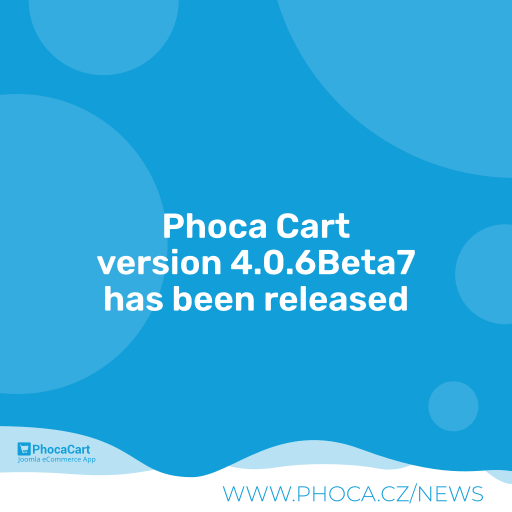
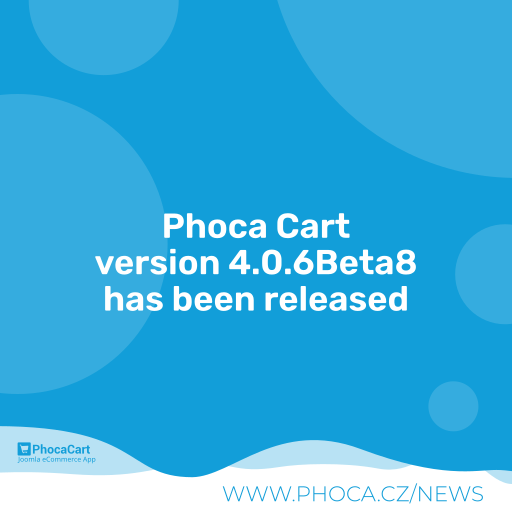
4.0.6Beta8

Changed region(s): [[0.1875, 0.4688, 0.8125, 0.5312]]

diff --git a/media/js/phoca/phocafilter.min.js b/media/js/phoca/phocafilter.min.js
@@ -1,1 +1,1 @@
-var phFilterNewUrlSet="",phFilterNewUrlRemove="",phFilterNewUrlSetPreviousParamWaiting=0,phFilterNewUrlRemovePreviousParamWaiting=0;function phEscapeRegExp(e){return e.replace(/([.*+?^=!:${}()|\[\]\/\\])/g,"\\$1")}function phReplaceAll(e,r,t){return t.replace(new RegExp(phEscapeRegExp(e),"g"),r)}function phEncode(e){e=encodeURIComponent(e);return e=phReplaceAll("%5B","[",e),e=phReplaceAll("%5D","]",e),e=phReplaceAll("%2C",",",e),e=phReplaceAll("%3A",":",e)}function phArrayToString(e){e=phReplaceAll("[","(",e);return e=phReplaceAll("]",")",e)}function phStringToArray(e){e=phReplaceAll("(","[",e);return e=phReplaceAll(")","]",e)}function phCleanArray(e){for(var r=[],t=0;t<e.length;t++)e[t]&&r.push(e[t]);return r}function phCleanEmptyParams(e){return e.replace(/&?[^&?]+=(?=(?:&|$))/g,"")}function phCleanAloneQuestionMark(e){return e="?"==(e="?&"==e?"?":e)?"":e}function phFilterValue(e){e=phReplaceAll("<","",e);return e=phReplaceAll(">","",e)}function phResetNewUrl(e){phFilterNewUrlSet=phFilterNewUrlRemove="",1==e&&(phFilterNewUrlSetPreviousParamWaiting=phFilterNewUrlRemovePreviousParamWaiting=0)}function phRemoveFilter(e,r,t,i,l,a,p,o){var n=Joomla.getOptions("phParamsPC");1!=n.ajaxSearchingFilteringItems&&(phFilterNewUrlSet=i),e=phArrayToString(e);var h,c=phArrayToString(c=jQuery.param.querystring()),m=""!==phFilterNewUrlRemove||1==phFilterNewUrlRemovePreviousParamWaiting?jQuery.deparam.querystring(phFilterNewUrlRemove):jQuery.deparam.querystring(c),s={},u=0;if(void 0!==m.start&&(s.start=0),void 0!==m.limitstart&&(s.limitstart=0),1!=a&&void 0!==m[e]?-1===(a=phCleanArray(a=(c=m[e]).split(","))).indexOf(r)||(-1<(r=a.indexOf(r))&&a.splice(r,1),(c=a.join())?s[e]=c:(delete m[e],s=m,u=2)):(delete m[e],s=m,u=2),1==t&&1!=l||1!=t)return""==(h=i)&&(h=document.location.pathname),document.location=h,1;if(h=location.search,h=phArrayToString(h=""!==phFilterNewUrlRemove||1==phFilterNewUrlRemovePreviousParamWaiting?phFilterNewUrlRemove:h),phFilterNewUrlRemove=phReplaceAll("%2C",",",phFilterNewUrlRemove=jQuery.param.querystring(h,s,u)),phFilterNewUrlRemove=phReplaceAll("%5B","[",phFilterNewUrlRemove),phFilterNewUrlRemove=phReplaceAll("%5D","]",phFilterNewUrlRemove),phFilterNewUrlRemove=phCleanAloneQuestionMark(phFilterNewUrlRemove=phStringToArray(phFilterNewUrlRemove=phReplaceAll("%3A",":",phFilterNewUrlRemove))),1==p){if((phFilterNewUrlRemovePreviousParamWaiting=1)==t&&1==n.ajaxSearchingFilteringItems)return 2}else{if(1==t&&1==n.ajaxSearchingFilteringItems)return phUpdatePageAndParts(phFilterNewUrlRemove,o),phResetNewUrl(1),2;""==phFilterNewUrlRemove&&(phFilterNewUrlRemove=document.location.pathname),document.location=phFilterNewUrlRemove,phResetNewUrl()}return 1}function phSetFilter(e,r,t,i,l,a,p,o){var n=Joomla.getOptions("phParamsPC");r=phFilterValue(r),e=phArrayToString(e);var h=phArrayToString(h=jQuery.param.querystring()),c=1==phFilterNewUrlSetPreviousParamWaiting?(phFilterNewUrlSet=phArrayToString(phFilterNewUrlSet),jQuery.deparam.querystring(phFilterNewUrlSet)):jQuery.deparam.querystring(h),h={};if(void 0!==c.start&&(h.start=0),void 0!==c.limitstart&&(h.limitstart=0),1==a?h[e]=r:""===r||(void 0!==c[e]?(-1===(c=phCleanArray(c=(a=c[e]).split(","))).indexOf(r)&&(c.push(r),a=c.join()),h[e]=a):h[e]=r),i=1==t&&1!=l||1!=t?i:location.search,i=phArrayToString(i=1==phFilterNewUrlSetPreviousParamWaiting?phFilterNewUrlSet:i),phFilterNewUrlSet=phReplaceAll("%2C",",",phFilterNewUrlSet=jQuery.param.querystring(i,h,0)),phFilterNewUrlSet=phReplaceAll("%2C",",",phFilterNewUrlSet),phFilterNewUrlSet=phReplaceAll("%5B","[",phFilterNewUrlSet),phFilterNewUrlSet=phReplaceAll("%5D","]",phFilterNewUrlSet),phFilterNewUrlSet=phCleanAloneQuestionMark(phFilterNewUrlSet=phCleanEmptyParams(phFilterNewUrlSet=phStringToArray(phFilterNewUrlSet=phReplaceAll("%3A",":",phFilterNewUrlSet)))),1==p){if((phFilterNewUrlSetPreviousParamWaiting=1)==t&&1==n.ajaxSearchingFilteringItems)return 2}else{if(1==t&&1==n.ajaxSearchingFilteringItems)return phUpdatePageAndParts(phFilterNewUrlSet,o),phResetNewUrl(1),2;document.location=phFilterNewUrlSet,phResetNewUrl()}return 1}function phChangeFilter(e,r,t,i,l,a,p){var o=Joomla.getOptions("phVarsModPhocacartFilter"),n=Joomla.getOptions("phParamsModPhocacartFilter"),h=o.isItemsView,c=o.isSef,m=o.urlItemsView,s=o.urlItemsViewWithoutParams,o=1;"itemview"==i?o=phSetFilter(e,r=void 0===r?"":r,1,0,1,l,a,p):"text"==i?o=(1==t?phSetFilter:phRemoveFilter)(e,r,h,m,1,l,a,p):"category"==i?(m=s,1==n.removeParametersCat?document.location=m:(n=jQuery.param.querystring(),1==h?1==c?document.location=jQuery.param.querystring(m,n,2):phRemoveFilter(e,r,h,m,1,l,a,p):document.location=m)):"color"==i||"image"==i?jQuery(t).hasClass("on")?(o=phRemoveFilter(e,r,h,m,1,l,a,p),jQuery(t).removeClass("on")):(o=phSetFilter(e,r,h,m,1,l,a,p),jQuery(t).addClass("on")):o=(t.checked?phSetFilter:phRemoveFilter)(e,r,h,m,1,l,a,p),startFullOverlay(o)}function phChangeSearch(e,r,t){var i=Joomla.getOptions("phVarsModPhocacartSearch"),l=Joomla.getOptions("phParamsModPhocacartSearch"),a=(Joomla.getOptions("phParamsPC"),i.isItemsView),p=i.urlItemsView,o=i.urlItemsViewWithoutParams,n=1,i=a,n=1==t?(1==l.searchOptions?0<jQuery("#phSearchBoxSearchAllProducts:checked").length&&(p=o,i=0):i=0,phSetFilter(e,r,a,p,i,1,0,2)):phRemoveFilter(e,r,a,p,i,1,0,2);startFullOverlay(n)}function phPriceFilterRange(){var i=Joomla.getOptions("phParamsPC"),l=Joomla.getOptions("phLangPC");"function"==typeof jQuery("#phPriceFilterRange").slider&&jQuery("#phPriceFilterRange").slider({range:!0,min:i.filterPriceMin,max:i.filterPriceMax,values:[i.filterPriceFrom,i.filterPriceTo],slide:function(e,r){jQuery("#phPriceFromTopricefrom").val(r.values[0]),jQuery("#phPriceFromTopriceto").val(r.values[1]),jQuery("#phPriceFilterPrice").html(l.COM_PHOCACART_PRICE+": "+phGetPriceFormat(r.values[0])+" - "+phGetPriceFormat(r.values[1]))}}),jQuery("#phPriceFilterPrice").html(l.COM_PHOCACART_PRICE+": "+phGetPriceFormat(i.filterPriceFrom)+" - "+phGetPriceFormat(i.filterPriceTo)),jQuery("#phPriceFromTopricefrom").on("change",function(e){var r=jQuery("#phPriceFromTopricefrom").val(),t=jQuery("#phPriceFromTopriceto").val();""==t&&(t=i.filterPriceMax),""==r&&(r=i.filterPriceMin),Number(t)<Number(r)&&(t=r,jQuery("#phPriceFromTopriceto").val(t)),"function"==typeof jQuery("#phPriceFilterRange").slider&&jQuery("#phPriceFilterRange").slider({values:[r,t]}),jQuery("#phPriceFilterPrice").html(l.COM_PHOCACART_PRICE+": "+phGetPriceFormat(r)+" - "+phGetPriceFormat(t))}),jQuery("#phPriceFromTopriceto").on("change",function(e){var r=jQuery("#phPriceFromTopricefrom").val(),t=jQuery("#phPriceFromTopriceto").val();""==t&&(t=i.filterPriceMax),""==r&&(r=i.filterPriceMin),Number(t)<Number(r)&&(t=r,jQuery("#phPriceFromTopriceto").val(t)),"function"==typeof jQuery("#phPriceFilterRange").slider&&jQuery("#phPriceFilterRange").slider({values:[r,t]}),jQuery("#phPriceFilterPrice").html(l.COM_PHOCACART_PRICE+": "+phGetPriceFormat(r)+" - "+phGetPriceFormat(t))})}function phClearField(e){jQuery(e).val(""),"#phPriceFromTopricefrom"!=e&&"#phPriceFromTopriceto"!=e||phPriceFilterRange()}jQuery(document).ready(function(){jQuery(".collapse").on("shown.bs.collapse",function(){jQuery(this).parent().find(".glyphicon-triangle-right").removeClass("glyphicon-triangle-right").addClass("glyphicon-triangle-bottom"),jQuery(this).parent().find(".fa-caret-right").removeClass("fa-caret-right").addClass("fa-caret-down");var e=jQuery(this).parent().find("svg use"),r=(r=e.attr("xlink:href")).replace("#pc-si-triangle-right","#pc-si-triangle-bottom");e.attr("xlink:href",r)}).on("hidden.bs.collapse",function(){jQuery(this).parent().find(".glyphicon-triangle-bottom").removeClass("glyphicon-triangle-bottom").addClass("glyphicon-triangle-right"),jQuery(this).parent().find(".fa-caret-down").removeClass("fa-caret-down").addClass("fa-caret-right");var e=jQuery(this).parent().find("svg use"),r=(r=e.attr("xlink:href")).replace("#pc-si-triangle-bottom","#pc-si-triangle-right");e.attr("xlink:href",r)}),phPriceFilterRange()});
+var phFilterNewUrlSet="",phFilterNewUrlRemove="",phFilterNewUrlSetPreviousParamWaiting=0,phFilterNewUrlRemovePreviousParamWaiting=0;function phEscapeRegExp(e){return e.replace(/([.*+?^=!:${}()|\[\]\/\\])/g,"\\$1")}function phReplaceAll(e,r,t){return t.replace(new RegExp(phEscapeRegExp(e),"g"),r)}function phEncode(e){e=encodeURIComponent(e);return e=phReplaceAll("%5B","[",e),e=phReplaceAll("%5D","]",e),e=phReplaceAll("%2C",",",e),e=phReplaceAll("%3A",":",e)}function phArrayToString(e){e=phReplaceAll("[","(",e);return e=phReplaceAll("]",")",e)}function phStringToArray(e){e=phReplaceAll("(","[",e);return e=phReplaceAll(")","]",e)}function phCleanArray(e){for(var r=[],t=0;t<e.length;t++)e[t]&&r.push(e[t]);return r}function phCleanEmptyParams(e){return e.replace(/&?[^&?]+=(?=(?:&|$))/g,"")}function phCleanAloneQuestionMark(e){return e="?"==(e="?&"==e?"?":e)?"":e}function phFilterValue(e){e=phReplaceAll("<","",e);return e=phReplaceAll(">","",e)}function phResetNewUrl(e){phFilterNewUrlSet=phFilterNewUrlRemove="",1==e&&(phFilterNewUrlSetPreviousParamWaiting=phFilterNewUrlRemovePreviousParamWaiting=0)}function phRemoveFilter(e,r,t,i,l,a,p,o){var n=Joomla.getOptions("phParamsPC");1!=n.ajaxSearchingFilteringItems&&(phFilterNewUrlSet=i),e=phArrayToString(e);var h,c=phArrayToString(c=jQuery.param.querystring()),m=""!==phFilterNewUrlRemove||1==phFilterNewUrlRemovePreviousParamWaiting?jQuery.deparam.querystring(phFilterNewUrlRemove):jQuery.deparam.querystring(c),s={},u=0;if(void 0!==m.start&&(s.start=0),void 0!==m.limitstart&&(s.limitstart=0),1!=a&&void 0!==m[e]?-1===(a=phCleanArray(a=(c=m[e]).split(","))).indexOf(r)||(-1<(r=a.indexOf(r))&&a.splice(r,1),(c=a.join())?s[e]=c:(delete m[e],s=m,u=2)):(delete m[e],s=m,u=2),1==t&&1!=l||1!=t)return""==(h=i)&&(h=document.location.pathname),document.location=h,1;if(h=location.search,h=phArrayToString(h=""!==phFilterNewUrlRemove||1==phFilterNewUrlRemovePreviousParamWaiting?phFilterNewUrlRemove:h),phFilterNewUrlRemove=phReplaceAll("%2C",",",phFilterNewUrlRemove=jQuery.param.querystring(h,s,u)),phFilterNewUrlRemove=phReplaceAll("%5B","[",phFilterNewUrlRemove),phFilterNewUrlRemove=phReplaceAll("%5D","]",phFilterNewUrlRemove),phFilterNewUrlRemove=phCleanAloneQuestionMark(phFilterNewUrlRemove=phStringToArray(phFilterNewUrlRemove=phReplaceAll("%3A",":",phFilterNewUrlRemove))),1==p){if((phFilterNewUrlRemovePreviousParamWaiting=1)==t&&1==n.ajaxSearchingFilteringItems)return 2}else{if(1==t&&1==n.ajaxSearchingFilteringItems)return phUpdatePageAndParts(phFilterNewUrlRemove,o),phResetNewUrl(1),2;""==phFilterNewUrlRemove&&(phFilterNewUrlRemove=document.location.pathname),document.location=phFilterNewUrlRemove,phResetNewUrl()}return 1}function phSetFilter(e,r,t,i,l,a,p,o){var n=Joomla.getOptions("phParamsPC");r=phFilterValue(r),e=phArrayToString(e);var h=phArrayToString(h=jQuery.param.querystring()),c=1==phFilterNewUrlSetPreviousParamWaiting?(phFilterNewUrlSet=phArrayToString(phFilterNewUrlSet),jQuery.deparam.querystring(phFilterNewUrlSet)):jQuery.deparam.querystring(h),h={};if(void 0!==c.start&&(h.start=0),void 0!==c.limitstart&&(h.limitstart=0),1==a?h[e]=r:""===r||(void 0!==c[e]?(-1===(c=phCleanArray(c=(a=c[e]).split(","))).indexOf(r)&&(c.push(r),a=c.join()),h[e]=a):h[e]=r),i=1==t&&1!=l||1!=t?i:location.search,i=phArrayToString(i=1==phFilterNewUrlSetPreviousParamWaiting?phFilterNewUrlSet:i),phFilterNewUrlSet=phReplaceAll("%2C",",",phFilterNewUrlSet=jQuery.param.querystring(i,h,0)),phFilterNewUrlSet=phReplaceAll("%2C",",",phFilterNewUrlSet),phFilterNewUrlSet=phReplaceAll("%5B","[",phFilterNewUrlSet),phFilterNewUrlSet=phReplaceAll("%5D","]",phFilterNewUrlSet),phFilterNewUrlSet=phCleanAloneQuestionMark(phFilterNewUrlSet=phCleanEmptyParams(phFilterNewUrlSet=phStringToArray(phFilterNewUrlSet=phReplaceAll("%3A",":",phFilterNewUrlSet)))),1==p){if((phFilterNewUrlSetPreviousParamWaiting=1)==t&&1==n.ajaxSearchingFilteringItems)return 2}else{if(1==t&&1==n.ajaxSearchingFilteringItems)return phUpdatePageAndParts(phFilterNewUrlSet,o),phResetNewUrl(1),2;document.location=phFilterNewUrlSet,phResetNewUrl()}return 1}function phChangeFilter(e,r,t,i,l,a,p){var o=Joomla.getOptions("phVarsModPhocacartFilter"),n=Joomla.getOptions("phParamsModPhocacartFilter"),h=o.isItemsView,c=o.isSef,m=o.urlItemsView,s=o.urlItemsViewWithoutParams,o=1;"itemview"==i?o=phSetFilter(e,r=void 0===r?"":r,1,0,1,l,a,p):"text"==i?o=(1==t?phSetFilter:phRemoveFilter)(e,r,h,m,1,l,a,p):"category"==i?(m=s,1==n.removeParametersCat?document.location=m:(n=jQuery.param.querystring(),1==h?1==c?document.location=jQuery.param.querystring(m,n,2):phRemoveFilter(e,r,h,m,1,l,a,p):document.location=m)):"color"==i||"image"==i?jQuery(t).hasClass("on")?(o=phRemoveFilter(e,r,h,m,1,l,a,p),jQuery(t).removeClass("on")):(o=phSetFilter(e,r,h,m,1,l,a,p),jQuery(t).addClass("on")):o=(t.checked?phSetFilter:phRemoveFilter)(e,r,h,m,1,l,a,p),startFullOverlay(o)}function phChangeSearch(e,r,t){var i=Joomla.getOptions("phVarsModPhocacartSearch"),l=Joomla.getOptions("phParamsModPhocacartSearch"),a=(Joomla.getOptions("phParamsPC"),i.isItemsView),p=i.urlItemsView,o=i.urlItemsViewWithoutParams,n=1,i=a,n=1==t?(1==l.searchOptions?0<jQuery("#phSearchBoxSearchAllProducts:checked").length&&(p=o,i=0):i=0,phSetFilter(e,r,a,p,i,1,0,2)):phRemoveFilter(e,r,a,p,i,1,0,2);startFullOverlay(n)}function phPriceFilterRange(){var i=Joomla.getOptions("phParamsPC"),l=Joomla.getOptions("phLangPC");"function"==typeof jQuery("#phPriceFilterRange").slider&&jQuery("#phPriceFilterRange").slider({range:!0,min:i.filterPriceMin,max:i.filterPriceMax,values:[i.filterPriceFrom,i.filterPriceTo],slide:function(e,r){jQuery("#phPriceFromTopricefrom").val(r.values[0]),jQuery("#phPriceFromTopriceto").val(r.values[1]),jQuery("#phPriceFilterPrice").html(l.COM_PHOCACART_PRICE+": "+phGetPriceFormat(r.values[0])+" - "+phGetPriceFormat(r.values[1]))}}),jQuery("#phPriceFilterPrice").html(l.COM_PHOCACART_PRICE+": "+phGetPriceFormat(i.filterPriceFrom)+" - "+phGetPriceFormat(i.filterPriceTo)),jQuery("#phPriceFromTopricefrom").on("change",function(e){var r=jQuery("#phPriceFromTopricefrom").val(),t=jQuery("#phPriceFromTopriceto").val();""==t&&(t=i.filterPriceMax),""==r&&(r=i.filterPriceMin),Number(t)<Number(r)&&(t=r,jQuery("#phPriceFromTopriceto").val(t)),"function"==typeof jQuery("#phPriceFilterRange").slider&&jQuery("#phPriceFilterRange").slider({values:[r,t]}),jQuery("#phPriceFilterPrice").html(l.COM_PHOCACART_PRICE+": "+phGetPriceFormat(r)+" - "+phGetPriceFormat(t))}),jQuery("#phPriceFromTopriceto").on("change",function(e){var r=jQuery("#phPriceFromTopricefrom").val(),t=jQuery("#phPriceFromTopriceto").val();""==t&&(t=i.filterPriceMax),""==r&&(r=i.filterPriceMin),Number(t)<Number(r)&&(t=r,jQuery("#phPriceFromTopriceto").val(t)),"function"==typeof jQuery("#phPriceFilterRange").slider&&jQuery("#phPriceFilterRange").slider({values:[r,t]}),jQuery("#phPriceFilterPrice").html(l.COM_PHOCACART_PRICE+": "+phGetPriceFormat(r)+" - "+phGetPriceFormat(t))})}function phClearField(e){jQuery(e).val(""),"#phPriceFromTopricefrom"!=e&&"#phPriceFromTopriceto"!=e||phPriceFilterRange()}jQuery(document).ready(function(){jQuery(".collapse").on("shown.bs.collapse",function(){jQuery(this).parent().find(".glyphicon-triangle-right").removeClass("glyphicon-triangle-right").addClass("glyphicon-triangle-bottom"),jQuery(this).parent().find(".fa-caret-right").removeClass("fa-caret-right").addClass("fa-caret-down");var e,r=jQuery(this).parent().find("svg use").first();0<r.length&&(e=(e=r.attr("xlink:href")).replace("#pc-si-triangle-right","#pc-si-triangle-bottom"),r.attr("xlink:href",e))}).on("hidden.bs.collapse",function(){jQuery(this).parent().find(".glyphicon-triangle-bottom").removeClass("glyphicon-triangle-bottom").addClass("glyphicon-triangle-right"),jQuery(this).parent().find(".fa-caret-down").removeClass("fa-caret-down").addClass("fa-caret-right");var e,r=jQuery(this).parent().find("svg use").first();0<r.length&&(e=(e=r.attr("xlink:href")).replace("#pc-si-triangle-bottom","#pc-si-triangle-right"),r.attr("xlink:href",e))}),phPriceFilterRange()});

diff --git a/media/js/phoca/phocafilter.js b/media/js/phoca/phocafilter.js
@@ -609,19 +609,23 @@ jQuery(document).ready(function () {
 		jQuery(this).parent().find(".glyphicon-triangle-right").removeClass("glyphicon-triangle-right").addClass("glyphicon-triangle-bottom");
 		jQuery(this).parent().find(".fa-caret-right").removeClass("fa-caret-right").addClass("fa-caret-down");
 		/* SVG */
-		var useT = jQuery(this).parent().find("svg use");
-		var link = useT.attr('xlink:href');
-		link = link.replace('#pc-si-triangle-right', '#pc-si-triangle-bottom');
-		useT.attr('xlink:href', link);
+		var useT = jQuery(this).parent().find("svg use").first();
+		if(useT.length > 0) {
+			var link = useT.attr('xlink:href');
+			link = link.replace('#pc-si-triangle-right', '#pc-si-triangle-bottom');
+			useT.attr('xlink:href', link);
+		}
     })
     .on('hidden.bs.collapse', function() {
         jQuery(this).parent().find(".glyphicon-triangle-bottom").removeClass("glyphicon-triangle-bottom").addClass("glyphicon-triangle-right");
         jQuery(this).parent().find(".fa-caret-down").removeClass("fa-caret-down").addClass("fa-caret-right");
 		/* SVG */
-		var useT = jQuery(this).parent().find("svg use");
-		var link = useT.attr('xlink:href');
-		link = link.replace('#pc-si-triangle-bottom', '#pc-si-triangle-right');
-		useT.attr('xlink:href', link);
+		var useT = jQuery(this).parent().find("svg use").first();
+		if(useT.length > 0) {
+			var link = useT.attr('xlink:href');
+			link = link.replace('#pc-si-triangle-bottom', '#pc-si-triangle-right');
+			useT.attr('xlink:href', link);
+		}
 	});
 
 

diff --git a/media/css/main.css b/media/css/main.css
@@ -1944,16 +1944,24 @@ li.ph-currency-list {
 }
 /* style icon */
 .inner-addon .fa,
-.inner-addon .glyphicon {
+.inner-addon .glyphicon,
+.inner-addon svg {
     position: absolute;
     padding: 10px;
     pointer-events: none;
 }
+.inner-addon svg {
+    padding: 0;
+    margin: 10px;
+}
+
 /* align icon */
-.left-addon .glyphicon {
+.left-addon .glyphicon,
+.left-addon svg {
     left: 0;
 }
-.right-addon .glyphicon {
+.right-addon .glyphicon,
+.right-addon svg {
     right: 0;
 }
 .left-addon .fa {
@@ -2252,6 +2260,7 @@ img.ph-lazyload:not([src]) {
     display:flex;
     align-items: center;
     justify-content: center;
+    line-height: 1;
 }
 
 .ph-pag-top-row button {
@@ -2357,4 +2366,3 @@ img.ph-lazyload:not([src]) {
     left: 0px;
     margin: 5px;
 }
-

diff --git a/admin/libraries/phocacart/download/download.php b/admin/libraries/phocacart/download/download.php
@@ -223,8 +223,10 @@ class PhocacartDownload
 			header('Cache-Control: private, max-age=0, must-revalidate, no-store');
 		} else {
 			header("Cache-Control: public, must-revalidate");
-			header('Cache-Control: pre-check=0, post-check=0, max-age=0');
-			header("Pragma: no-cache");
+            // 4.0.5
+			//header('Cache-Control: pre-check=0, post-check=0, max-age=0');
+			//header("Pragma: no-cache");
+            header('Cache-Control: max-age=0');
 			header("Expires: 0");
 		} /* end if protocol https */
 		header("Content-Description: File Transfer");

diff --git a/admin/models/phocacartmanufacturer.php b/admin/models/phocacartmanufacturer.php
@@ -58,7 +58,7 @@ class PhocaCartCpModelPhocacartManufacturer extends AdminModel
 			$data = $this->getItem();
 		}
 
-    $this->preprocessData('com_phocacart.phocacartmanufacturer', $data);
+        $this->preprocessData('com_phocacart.phocacartmanufacturer', $data);
 		return $data;
 	}
 

diff --git a/admin/models/fields/phocaselectitem.php b/admin/models/fields/phocaselectitem.php
@@ -63,7 +63,6 @@ class JFormFieldPhocaSelectItem extends FormField
 		$maxSize = isset($this->element['maxsize']) &&  (int)$this->element['maxsize'] > 0 ? (int)$this->element['maxsize'] : 0;
 
 
-
 		$onchange 	= (string) $this->element['onchange'];
 		$value = '';
 		if ($related) {

diff --git a/README.MD b/README.MD
@@ -116,13 +116,9 @@ Phoca Cart is e-commerce extension - powerful shopping cart for Joomla! CMS. Pho
 
 
 
-## Version (Joomla! 3.x)
-
-3.5.7
-
 ## Version (Joomla! 4.x)
 
-4.0.6Beta7
+4.0.6Beta8
 
 
 
